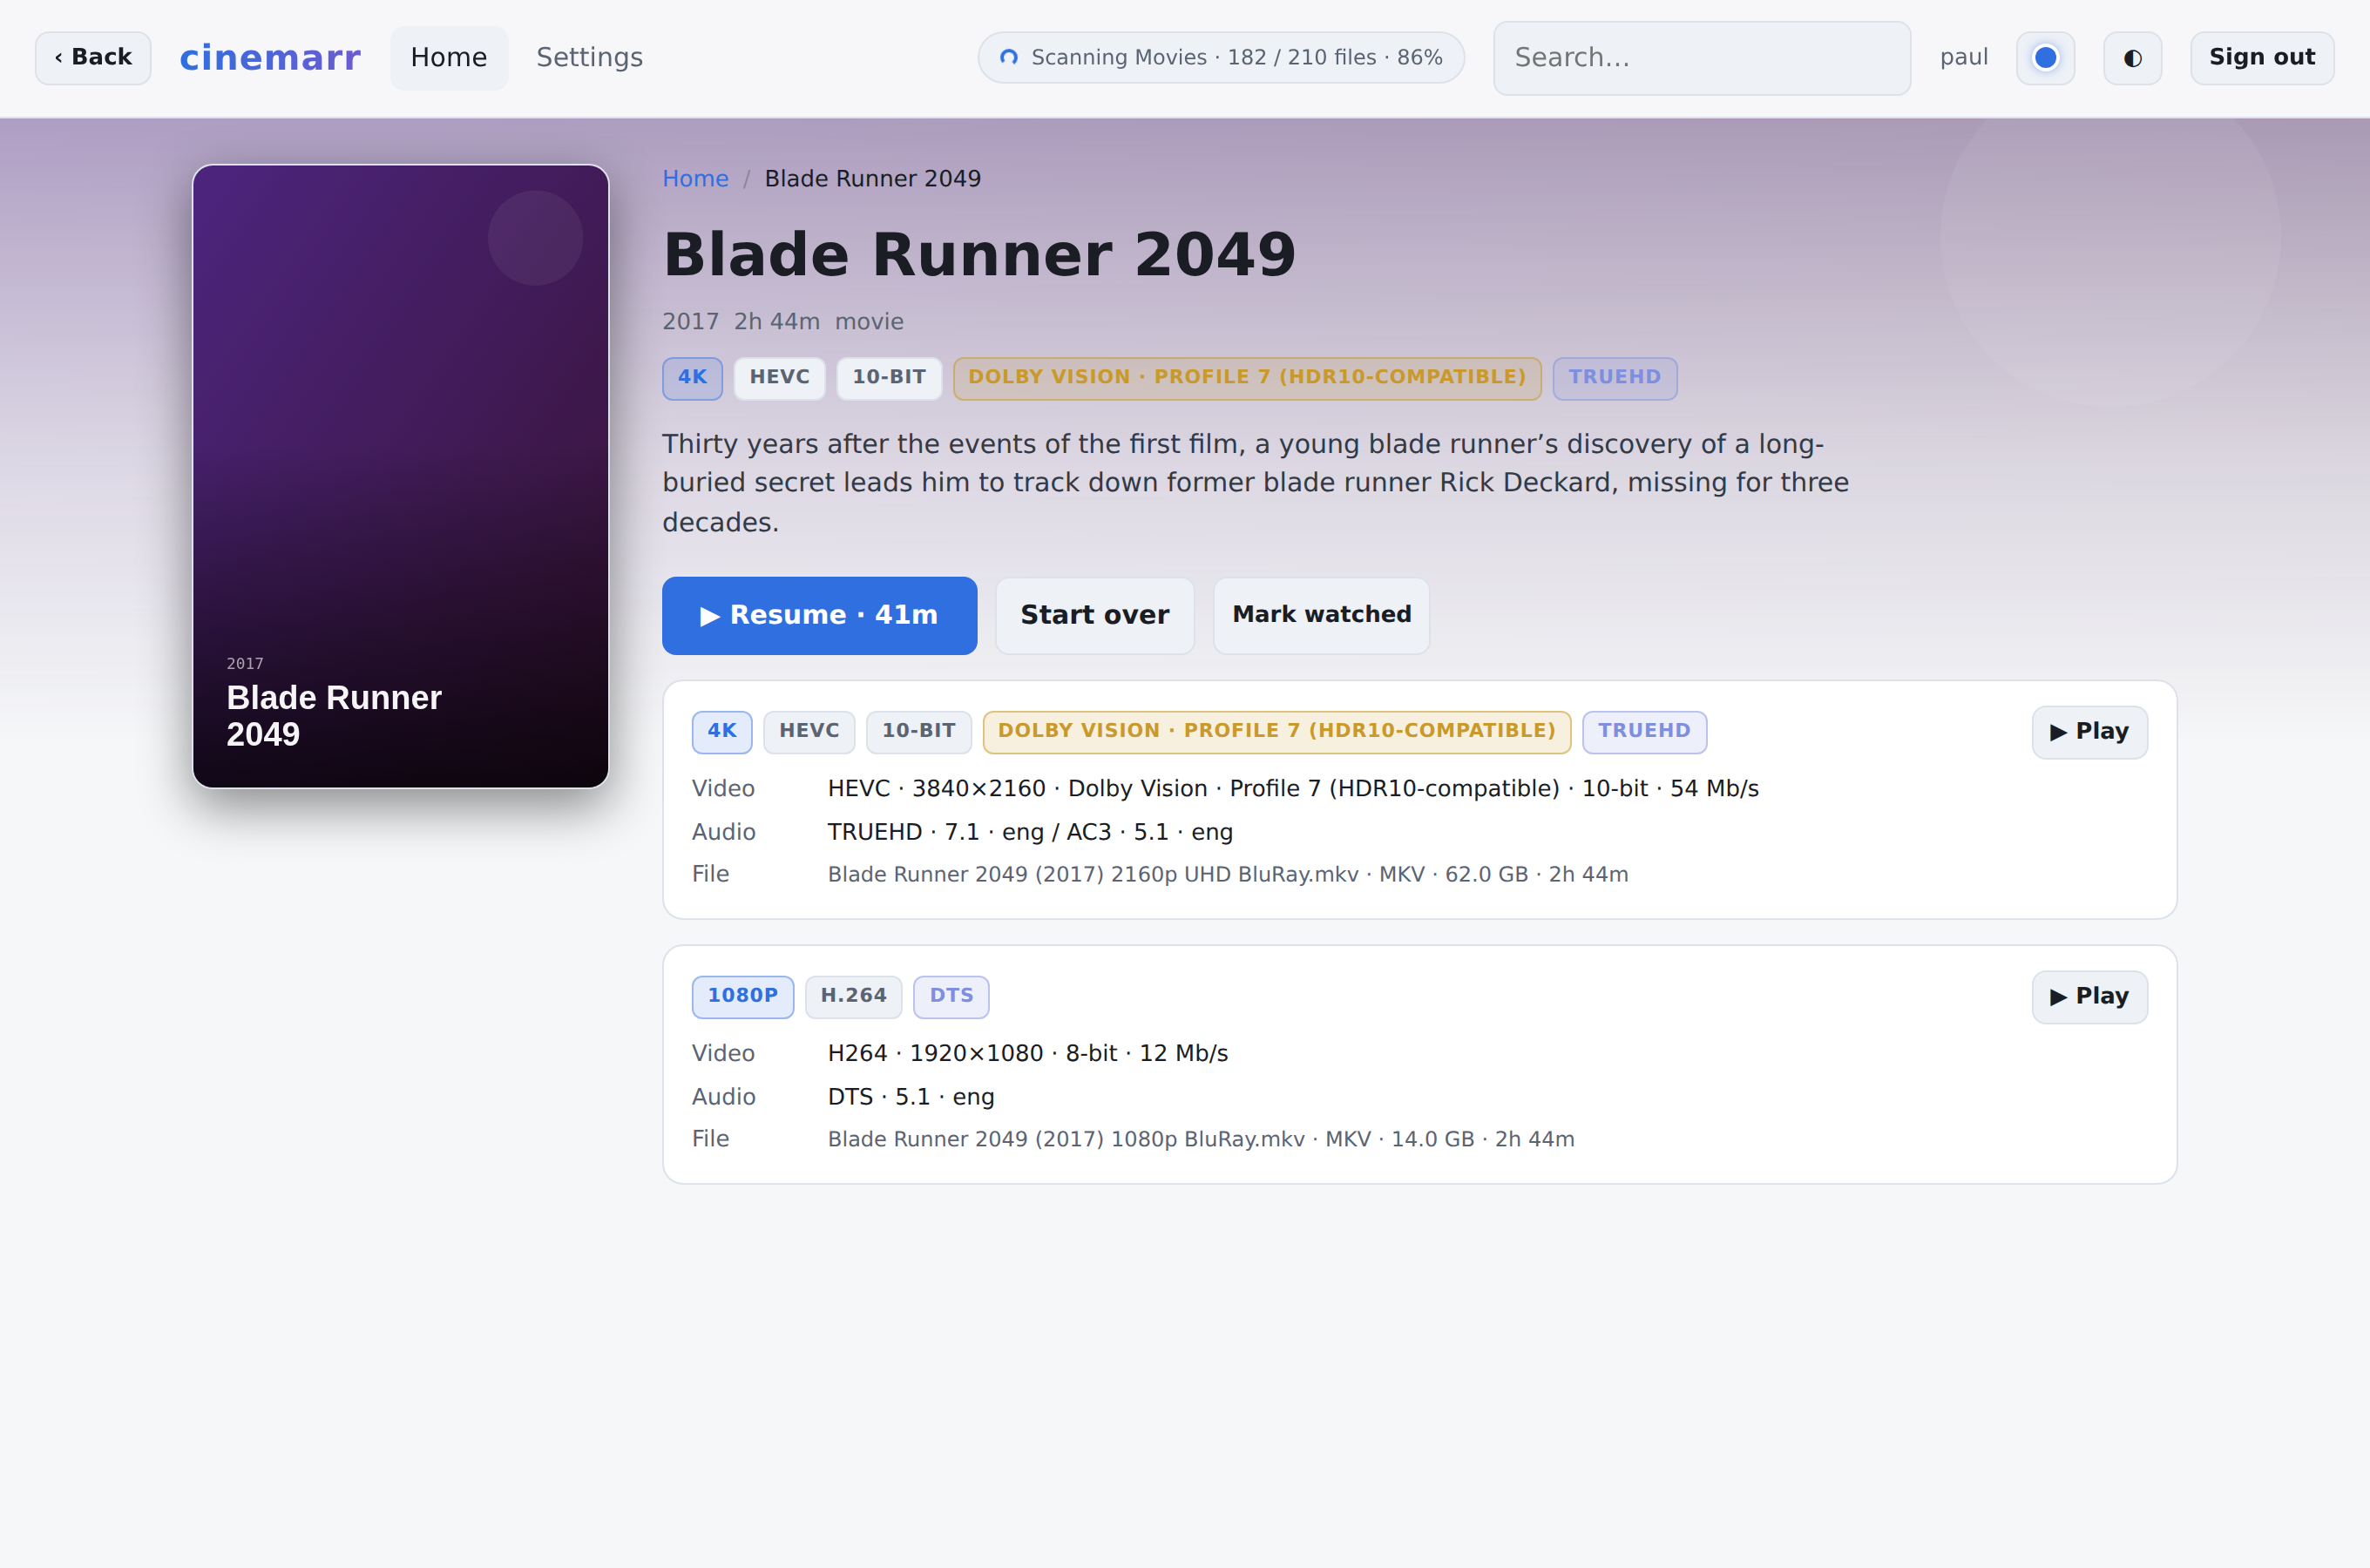
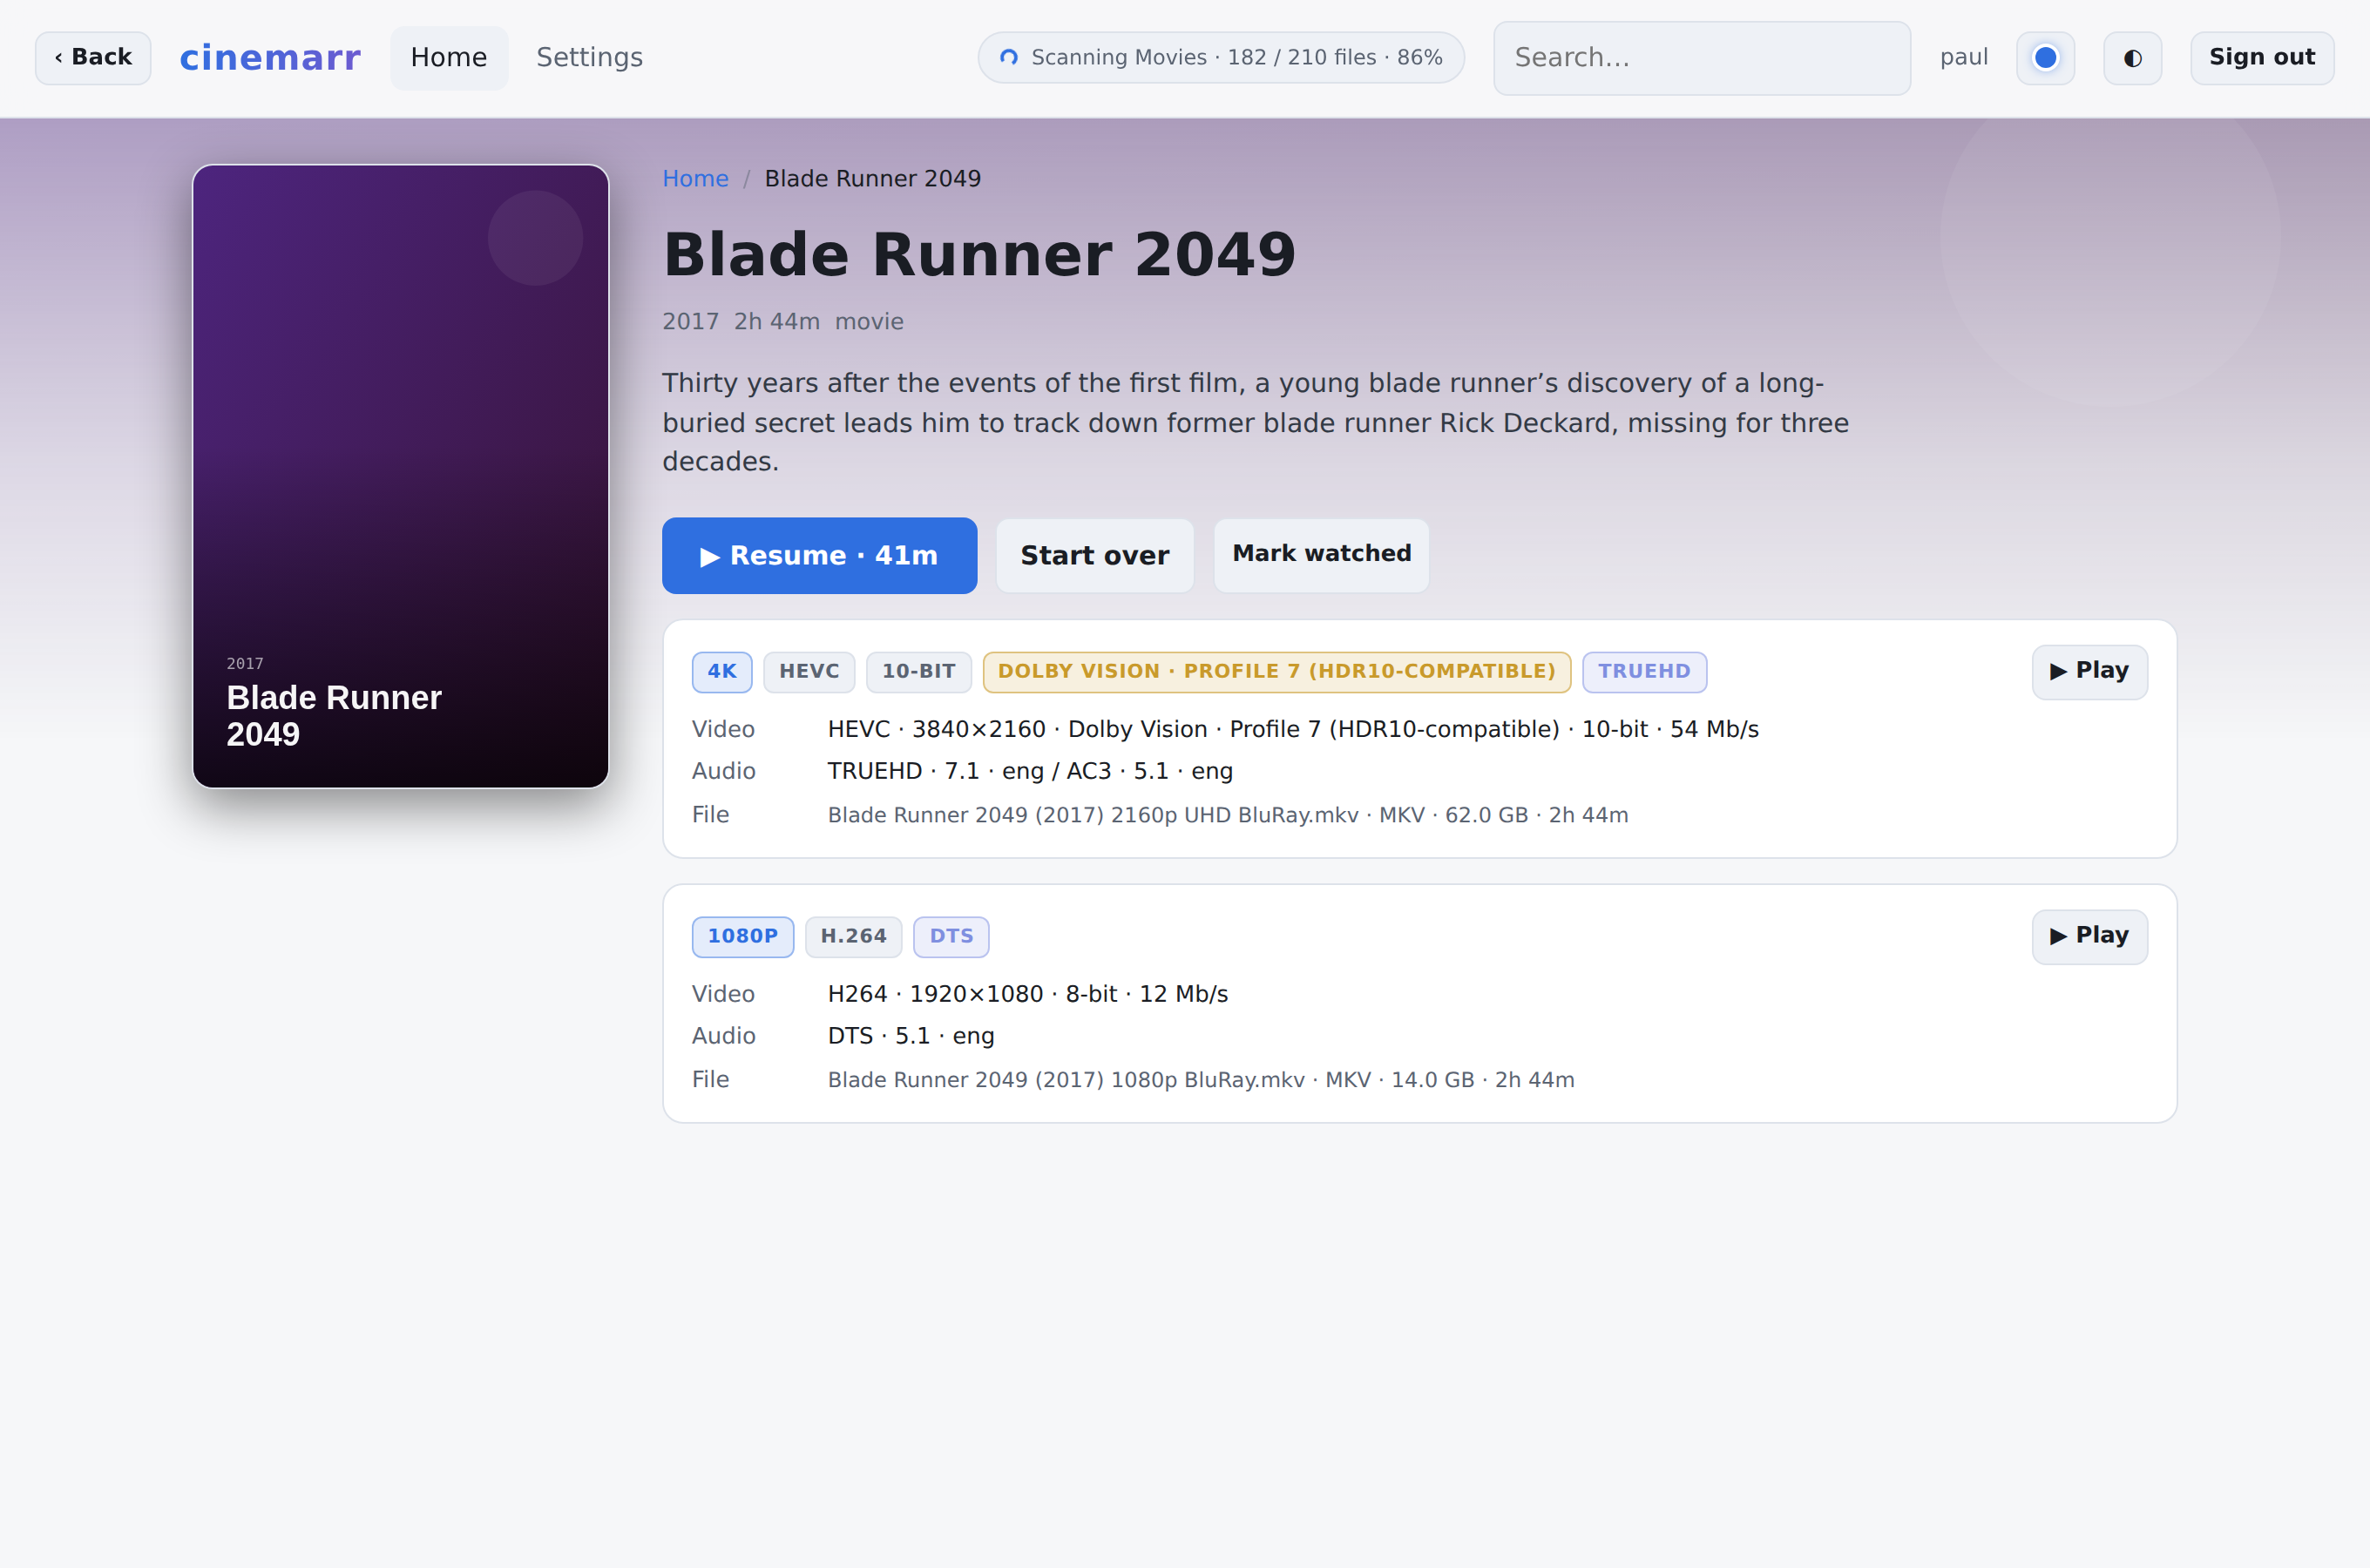
ui+transcode: fix duplicated badges; add tone-map / hw-decode escape hatches
Badges: a single-version item was badged twice — once in the hero and again in
its version block. Now video badges show exactly once: in the hero for a single
version, per-version when there are several (the version block for a lone file
is just the spec detail).

Grey-screen bisection: the DV file now hardware-decodes and produces segments,
and the hardened tone-map didn't fix the gray — so the problem is how the
QSV-decoded Dolby Vision frames reach the tone-map, not missing metadata. Two
env switches make this testable with a container restart (no rebuild):
- PLURX_TONEMAP=off — skip tone-mapping (HDR passes through washed but should
  play). If the file plays, the tone-map is the culprit.
- PLURX_HWDECODE=off — force software decode, keep hardware encode. If it plays
  (slowly), the GPU decode of this DV stream is the culprit.

99+ tests pass, clippy clean.

Claude-Session: https://claude.ai/code/session_01U2chgh7HUBcuphxmp7qzBN

Changed region(s): [[0.2812, 0.2178, 0.7812, 0.7467], [0.875, 0.4044, 0.9062, 0.4978], [0.8438, 0.5911, 0.9062, 0.6533]]

diff --git a/crates/plurxd/src/web/index.html b/crates/plurxd/src/web/index.html
@@ -531,13 +531,15 @@ async function viewItem(id){
   const crumbs=`<div class="crumbs">${trail.join('<span class="sep">/</span>')}</div>`;
 
   const best=d.files[0];
+  const multi=d.files.length>1;
   const runtime=it.runtime_ms||(best&&best.duration_ms);
   const chips=[];
   if(it.year) chips.push(`<span>${it.year}</span>`);
   if(runtime) chips.push(`<span>${fmtDur(runtime)}</span>`);
   if(it.kind) chips.push(`<span>${esc(it.kind)}</span>`);
-  // Video type is shown as color-coded badges (below), not plain chips.
-  const heroBadges = best? specBadges(best) : "";
+  // Video badges show once: in the hero for a single version; per-version below
+  // when there are several (so nothing is duplicated).
+  const heroBadges = (best && !multi) ? specBadges(best) : "";
 
   let body="";
   if(d.files.length){
@@ -554,13 +556,15 @@ async function viewItem(id){
       const p=best.missing_path;
       body+=`<div class="filemissing">⚠ This file is missing on the server, so it can’t be played — its library path may be unmounted, moved, or renamed${ME.is_admin&&p?`:<br><code>${esc(p)}</code>`:'.'}</div><div class="actions">${watchBtn}</div>`;
     }
-    const multi=d.files.length>1;
     body+=d.files.map(v=>{
       const miss=!v.available;
-      const badges=specBadges(v)||`<span class="vt">${esc(v.filename)}</span>`;
-      return `<div class="version"><div class="vh"><span class="vbadges">${badges}${miss?'<span class="missbadge">missing</span>':''}</span>
-        ${(!miss&&multi)?`<button class="ghost sm" onclick='play(${v.id},${JSON.stringify(it.title)},${resume},${v.duration_ms||0})'>▶ Play</button>`:''}</div>
-        ${specBlock(v)}${miss&&ME.is_admin&&v.missing_path?`<div class="problem">${esc(v.missing_path)}</div>`:''}</div>`;
+      // Header (badges + per-version play) only when there are multiple versions
+      // to tell apart, or when a file is missing. A single version is already
+      // badged in the hero, so its block is just the spec detail.
+      const header=(multi||miss)
+        ? `<div class="vh"><span class="vbadges">${specBadges(v)||`<span class="vt">${esc(v.filename)}</span>`}${miss?'<span class="missbadge">missing</span>':''}</span>${(!miss&&multi)?`<button class="ghost sm" onclick='play(${v.id},${JSON.stringify(it.title)},${resume},${v.duration_ms||0})'>▶ Play</button>`:''}</div>`
+        : '';
+      return `<div class="version">${header}${specBlock(v)}${miss&&ME.is_admin&&v.missing_path?`<div class="problem">${esc(v.missing_path)}</div>`:''}</div>`;
     }).join("");
   } else if(d.children.length && d.children[0].kind==='episode'){
     // Season: episodes as a list.

diff --git a/crates/plurx-core/src/transcode/mod.rs b/crates/plurx-core/src/transcode/mod.rs
@@ -26,6 +26,10 @@ pub enum ToneMap {
     Zscale,
     /// libplacebo (Vulkan) — higher quality on a capable GPU; opt-in.
     Libplacebo,
+    /// No tone-mapping: pass HDR through to 8-bit (looks washed on an SDR
+    /// screen, but plays). An escape hatch + a diagnostic — if a file that
+    /// grayed out now plays, the tone-map was the culprit.
+    None,
 }
 
 /// What to burn into the video (image subs must be burned; text subs can be).
@@ -78,8 +82,9 @@ fn video_filters(source: &MediaFile, opts: &TranscodeOptions, source_path: &str)
     chain.push(format!("scale=-2:'min({h},ih)'", h = opts.target_height));
 
     // HDR → SDR tone-map when the source carries HDR.
-    if source.hdr.is_some() {
+    if source.hdr.is_some() && opts.tone_map != ToneMap::None {
         match opts.tone_map {
+            ToneMap::None => {} // guarded out above; format normalize happens below
             ToneMap::Libplacebo => chain.push(
                 "libplacebo=tonemapping=bt.2390:colorspace=bt709:color_primaries=bt709:\
                  color_trc=bt709:format=yuv420p"
@@ -150,6 +155,15 @@ fn escape_filter_path(path: &str) -> String {
 /// isn't needed.
 fn decode_setup(encoder: Encoder, source: &MediaFile) -> (Vec<String>, Option<String>) {
     let arg = |x: &str| x.to_owned();
+    // Escape hatch: force software decode (still hardware-encodes). Set when a
+    // GPU decodes a stream to garbage — some Dolby Vision profiles — so you can
+    // fall back without giving up the hardware encoder.
+    if matches!(
+        std::env::var("PLURX_HWDECODE").as_deref(),
+        Ok("off" | "0" | "false" | "no")
+    ) {
+        return (Vec::new(), None);
+    }
     let heavy = matches!(
         source.video_codec.as_deref(),
         Some("hevc" | "h265" | "hevc10")
@@ -339,6 +353,20 @@ mod tests {
         let joined = args.join(" ");
         assert!(joined.contains("tonemap=tonemap=hable"));
         assert!(joined.contains("zscale"));
+    }
+
+    #[test]
+    fn tonemap_none_passes_hdr_through() {
+        // PLURX_TONEMAP=off → no tone-map filter, HDR just normalized to yuv420p.
+        let opts = TranscodeOptions {
+            tone_map: ToneMap::None,
+            ..Default::default()
+        };
+        let args = hls_args(&file(Some("dolby_vision")), Encoder::Software, &opts, "/tmp/s");
+        let joined = args.join(" ");
+        assert!(!joined.contains("tonemap"));
+        assert!(!joined.contains("zscale"));
+        assert!(joined.contains("format=yuv420p"));
     }
 
     #[test]

diff --git a/crates/plurxd/src/transcode.rs b/crates/plurxd/src/transcode.rs
@@ -107,6 +107,7 @@ fn ffmpeg_bin() -> String {
 fn tone_map_pref() -> ToneMap {
     match std::env::var("PLURX_TONEMAP").as_deref() {
         Ok("libplacebo") => ToneMap::Libplacebo,
+        Ok("off" | "none" | "passthrough") => ToneMap::None,
         _ => ToneMap::Zscale,
     }
 }

diff --git a/docs/OPERATIONS.md b/docs/OPERATIONS.md
@@ -53,7 +53,8 @@ path in `PLURX_CONFIG`). Every key has an env override:
 | `PLURX_FFPROBE` | — | `ffprobe` | ffprobe binary (inspection + chapter markers) |
 | `PLURX_HWACCEL` | — | `auto` | Preferred encoder: `auto` · `qsv` · `vaapi` · `nvenc` · `videotoolbox` |
 | `PLURX_VAAPI_DEVICE` | — | `/dev/dri/renderD128` | VA-API render node |
-| `PLURX_TONEMAP` | — | auto | HDR→SDR tone-map filter override |
+| `PLURX_TONEMAP` | — | zscale | HDR→SDR tone-map: `zscale` · `libplacebo` · `off` (no tone-map — plays HDR washed, but a useful test/escape hatch) |
+| `PLURX_HWDECODE` | — | on | Set `off` to force software decode (still hardware-encodes) — for a GPU that decodes a stream to garbage, e.g. some Dolby Vision |
 | `PLURX_GDM_PORT` | — | `32414` | Host UDP port for GDM discovery (move if Plex owns 32414) |
 | `PLURX_LOG` | — | `info` | Log filter (`tracing` EnvFilter syntax, e.g. `plurxd=debug`) |
 